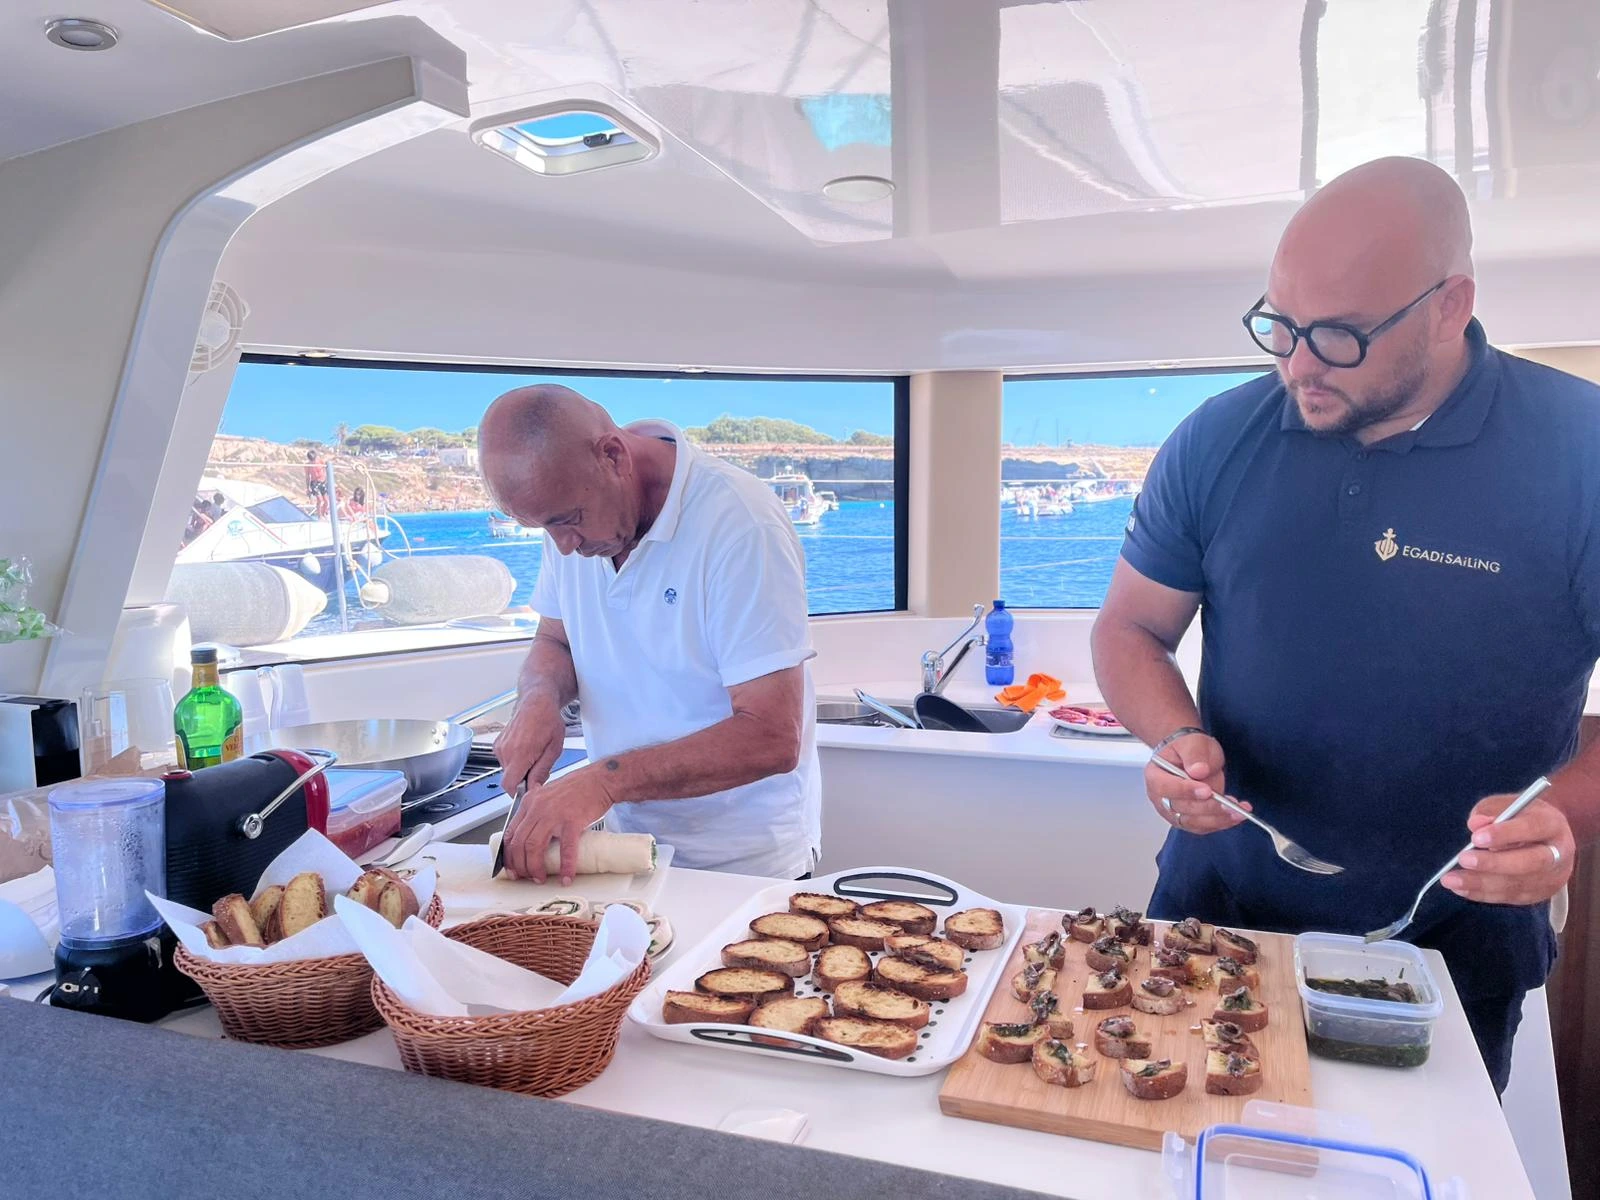
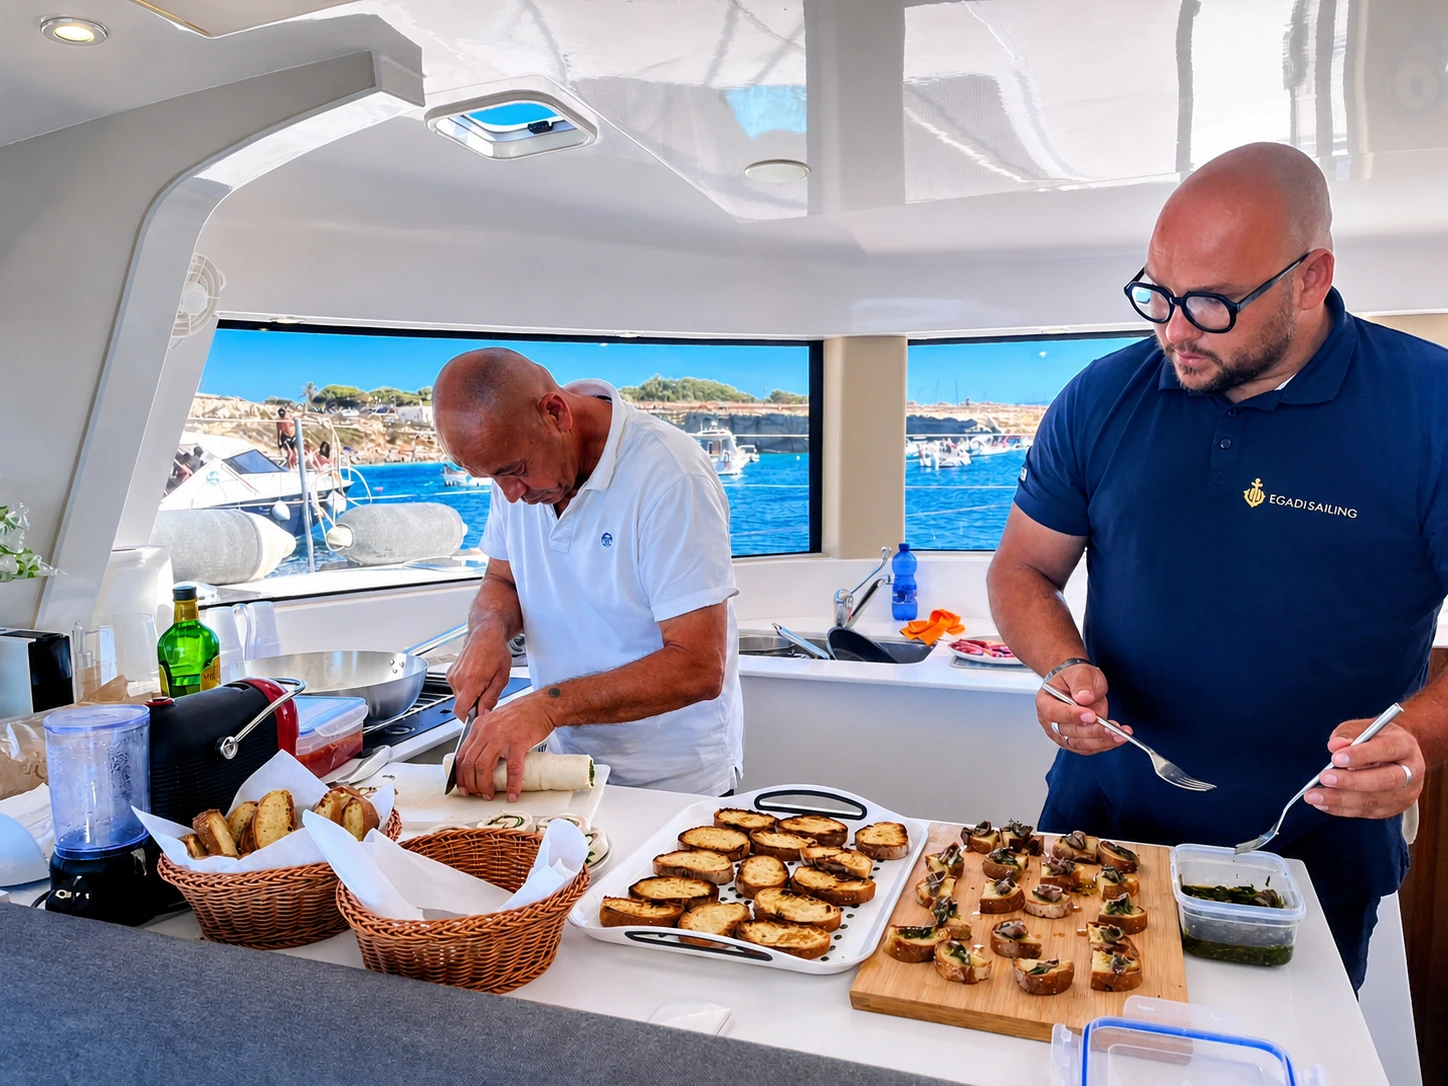
Fix experience polaroid image cache

diff --git a/src/components/hero-section.tsx b/src/components/hero-section.tsx
@@ -2,7 +2,7 @@
 
 import Image from "next/image";
 import Link from "next/link";
-import { useState, useEffect, useRef } from "react";
+import { useCallback, useState, useEffect, useRef } from "react";
 import { useLocale, useTranslations } from "next-intl";
 import { motion, AnimatePresence } from "framer-motion";
 import { CalendarDays, ChevronLeft, ChevronRight } from "lucide-react";
@@ -237,6 +237,32 @@ export function HeroSection({ experiences }: { experiences: HeroExperienceCard[]
     }
   }, [shouldLoadVideo]);
 
+  const getLoopResetPoint = useCallback(
+    (track = cardsTrackRef.current) => {
+      if (!track) return 0;
+      const duplicateStart = track.children.item(experiences.length) as HTMLElement | null;
+      return duplicateStart?.offsetLeft ?? 0;
+    },
+    [experiences.length],
+  );
+
+  const applyCarouselTransform = useCallback(() => {
+    const track = cardsTrackRef.current;
+    if (!track) return;
+    const resetPoint = getLoopResetPoint(track);
+
+    if (resetPoint > 0) {
+      while (carouselPositionRef.current >= resetPoint) {
+        carouselPositionRef.current -= resetPoint;
+      }
+      while (carouselPositionRef.current < 0) {
+        carouselPositionRef.current += resetPoint;
+      }
+    }
+
+    track.style.transform = `translate3d(${-carouselPositionRef.current}px, 0, 0)`;
+  }, [getLoopResetPoint]);
+
   useEffect(() => {
     const track = cardsTrackRef.current;
     if (!track || experiences.length < 2) return;
@@ -261,7 +287,7 @@ export function HeroSection({ experiences }: { experiences: HeroExperienceCard[]
 
     frameId = window.requestAnimationFrame(tick);
     return () => window.cancelAnimationFrame(frameId);
-  }, [experiences.length]);
+  }, [applyCarouselTransform, experiences.length]);
 
   useEffect(() => {
     return () => {
@@ -286,29 +312,6 @@ export function HeroSection({ experiences }: { experiences: HeroExperienceCard[]
 
     return () => window.clearInterval(intervalId);
   }, [experiences, hoveredExperienceKey]);
-
-  function getLoopResetPoint(track = cardsTrackRef.current) {
-    if (!track) return 0;
-    const duplicateStart = track.children.item(experiences.length) as HTMLElement | null;
-    return duplicateStart?.offsetLeft ?? 0;
-  }
-
-  function applyCarouselTransform() {
-    const track = cardsTrackRef.current;
-    if (!track) return;
-    const resetPoint = getLoopResetPoint(track);
-
-    if (resetPoint > 0) {
-      while (carouselPositionRef.current >= resetPoint) {
-        carouselPositionRef.current -= resetPoint;
-      }
-      while (carouselPositionRef.current < 0) {
-        carouselPositionRef.current += resetPoint;
-      }
-    }
-
-    track.style.transform = `translate3d(${-carouselPositionRef.current}px, 0, 0)`;
-  }
 
   function holdCardsAutoplay() {
     cardsAutoplayPausedRef.current = true;
@@ -523,6 +526,7 @@ export function HeroSection({ experiences }: { experiences: HeroExperienceCard[]
                               imageIndex === 0
                             }
                             sizes="(min-width: 1024px) 27vw, (min-width: 640px) 48vw, 82vw"
+                            unoptimized
                             className={cn(
                               "object-cover transition-opacity duration-500",
                               image.src === activeImage.src ? "opacity-100" : "opacity-0",

diff --git a/src/app/layout.tsx b/src/app/layout.tsx
@@ -1,4 +1,5 @@
 import type { Metadata } from "next";
+import Script from "next/script";
 import { Poppins, Inter, Caveat } from "next/font/google";
 import { getLocale } from "next-intl/server";
 import { ServiceWorkerCleanup } from "@/components/service-worker-cleanup";
@@ -109,7 +110,11 @@ export default async function RootLayout({
   return (
     <html lang={locale} className={`${poppins.variable} ${inter.variable} ${caveat.variable} h-full antialiased`}>
       <body className="min-h-full flex flex-col font-sans">
-        <script dangerouslySetInnerHTML={{ __html: serviceWorkerInlineCleanupScript }} />
+        <Script
+          id="egadisailing-service-worker-inline-cleanup"
+          strategy="beforeInteractive"
+          dangerouslySetInnerHTML={{ __html: serviceWorkerInlineCleanupScript }}
+        />
         <ServiceWorkerCleanup />
         {children}
       </body>

diff --git a/src/app/[locale]/landing-sections.tsx b/src/app/[locale]/landing-sections.tsx
@@ -405,6 +405,7 @@ function ExperienceRow({
                         alt={p.caption}
                         fill
                         sizes="45vw"
+                        unoptimized
                         className="object-cover"
                       />
                     )}
@@ -466,6 +467,7 @@ function ExperienceRow({
                       alt={p.caption}
                       fill
                       sizes="(min-width: 1024px) 24vw, 48vw"
+                      unoptimized
                       className="object-cover"
                     />
                   )}

diff --git a/src/components/experience-choice-dialog.tsx b/src/components/experience-choice-dialog.tsx
@@ -423,6 +423,7 @@ function RecommendationImages({
           alt={image.alt}
           fill
           sizes="(max-width: 768px) calc(100vw - 4rem), 34rem"
+          unoptimized
           className={cn(
             "object-cover transition-opacity duration-700 ease-out",
             index === activeIndex ? "opacity-100" : "opacity-0",

diff --git a/src/components/image-stack.tsx b/src/components/image-stack.tsx
@@ -102,6 +102,7 @@ export function ImageStack({ images, className }: ImageStackProps) {
                   fill
                   sizes="(max-width: 768px) 288px, (max-width: 1024px) 368px, 420px"
                   draggable={false}
+                  unoptimized
                   className="pointer-events-none select-none object-cover"
                 />
               )}